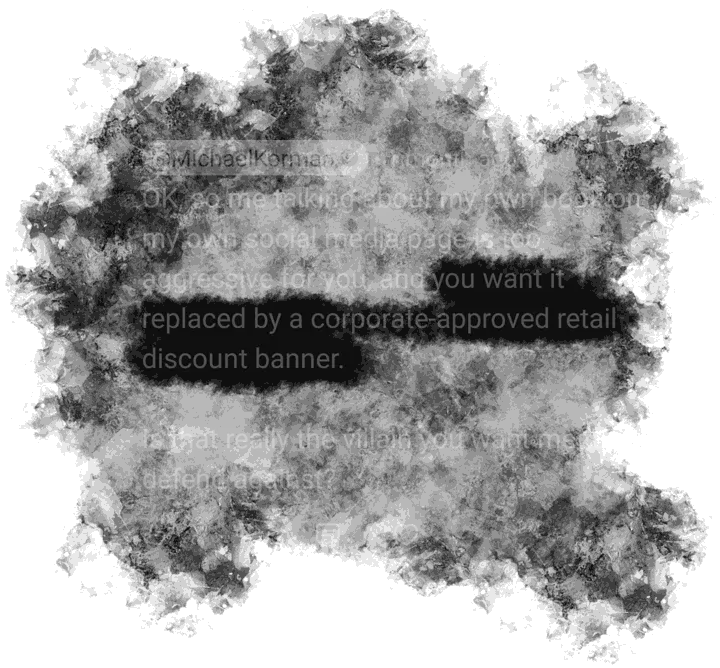
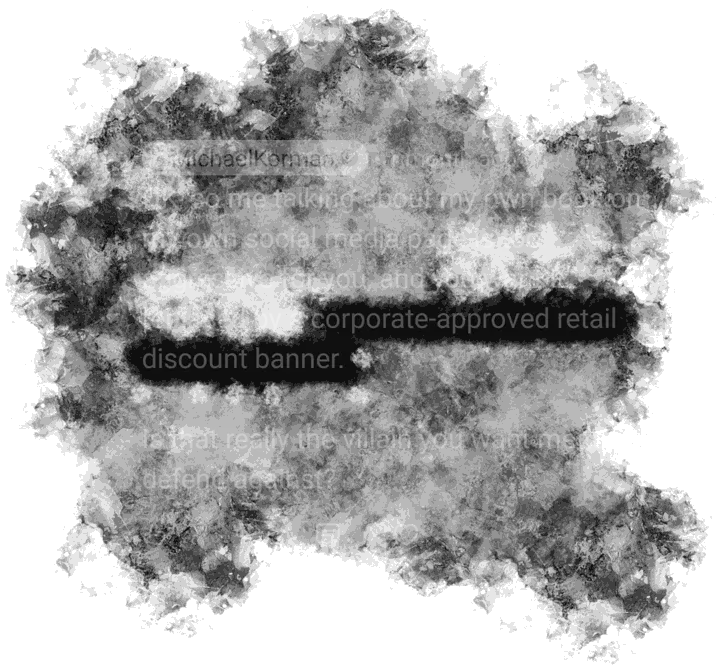
Change more images to `phrases` versions, change button font to `Geist Mono`

diff --git a/door/index.html b/door/index.html
@@ -60,7 +60,7 @@
 
             <img src="assets/passion-0-phrases.webp" alt="" class="relic-img comment-left">
             <img src="assets/passion-1-interruption.webp" alt="YouTube comment, name blurred out: 'I wonder, Mad Hatter... Does your passion come from money? Or from the heart?'" class="relic-img comment-right comment-strong">
-            <img src="assets/passion-2-lightdark.webp" alt="YouTube comment from Michael Korman: 'Can you articulate this better? Like, I write a book about online business and you call the concept of money itself into question. I don't know where to go with that.'" class="relic-img comment-left">
+            <img src="assets/passion-2-phrases.webp" alt="YouTube comment from Michael Korman: 'Can you articulate this better? Like, I write a book about online business and you call the concept of money itself into question. I don't know where to go with that.'" class="relic-img comment-left">
 
             <img src="assets/passion-3-interruption.webp" alt="YouTube comment, name blurred out: 'Simple question, Mr. Korman. Do you have a passion for what you do? Or just for the money you receive? Even when writing a book about online business you could still have a passion for a myriad of things: Teaching, writing, analyzing, etc. But it would seem like your passion is for the money and only the money. Please note, I am not judging you, just merely curious about what makes you, you." class="relic-img comment-right comment-strong">
             <img src="assets/passion-4-phrases.webp" alt="YouTube comment from Michael Korman: 'I think I get what you’re asking. You want to know: is it safe to look at the world Michael’s way? The answer? No. Almost certainly not. I didn’t arrive at this worldview all in one go. I didn’t sign on with some guru. I didn’t just make it up to sell a book. I tried doing X and it made me gain 70 pounds. I tried doing Y and it gave me chronic pain in my right forearm. I tried doing Z and it made my voice crack when I sang a high C. On and on. Over a period of years. Eventually, the totality of it forced me to say, 'yeah, everything they taught me is bullshit. Results DO actually matter. Process DOES actually matter. Numbing yourself has real consequences.' But if you have a better way to do it, you should do it that way. Do not surrender your discernment to some random guy on the Internet. I didn’t get here by doing that." class="relic-img comment-left comment-weak">
@@ -129,10 +129,10 @@
             <!-- <img src="assets/academic-1.webp" alt="" class="relic-img comment-left">
             <img src="assets/academic-2.webp" alt="" class="relic-img comment-right"> -->
             <img src="assets/progress-0.webp" alt="" class="relic-img comment-right comment-strong">
-            <img src="assets/progress-1-interruption.webp" alt="" class="relic-img comment-left">
+            <img src="assets/progress-1-phrases.webp" alt="" class="relic-img comment-left">
             <img src="assets/progress-2.webp" alt="" class="relic-img comment-right comment-strong">
-            <img src="assets/progress-3-interruption.webp" alt="" class="relic-img comment-left comment-weak">
-            <img src="assets/progress-4-interruption.webp" alt="" class="relic-img comment-right comment-strong">
+            <img src="assets/progress-3-phrases.webp" alt="" class="relic-img comment-left comment-weak">
+            <img src="assets/progress-4.webp" alt="" class="relic-img comment-right comment-strong">
             <!-- <img src="assets/academic-3.webp" alt="" class="relic-img comment-right">
             <img src="assets/academic-4.webp" alt="" class="relic-img comment-left"> -->
 
@@ -167,7 +167,7 @@
             <img src="assets/ai-slop.webp" alt="Comment about ai slop" class="relic-img comment-left">
             <img src="assets/em-dash.webp" alt="Comment about em-dashes" class="relic-img comment-right">
 
-            <img src="assets/misery2-terms.webp" alt="Handwritten page fragment" class="relic-img comment-big">
+            <img src="assets/misery2-phrases.webp" alt="Handwritten page fragment" class="relic-img comment-big">
 
         </section>
 

diff --git a/door/style.css b/door/style.css
@@ -7,7 +7,7 @@
 }
 
 @font-face {
-  font-family: 'Geist Mono';
+  font-family: 'Geist Mono', monospace;
   src: url('/fonts/GeistMono-Italic-VariableFont_wght.woff2') format('woff2');
   font-weight: 100 900;
   font-style: italic;
@@ -35,7 +35,7 @@ body {
   background-color: #1f1f1f;
   /* Match the dark gray background from Krita */
   color: #464646;
-  font-family: system-ui, -apple-system, sans-serif;
+  font-family: "Geist Mono", system-ui, -apple-system, sans-serif;
   min-height: 100vh;
   display: flex;
   justify-content: center;
@@ -163,12 +163,12 @@ button {
 /* Make plain text links gray and distressed looking. Have separate colors for hover and active. */
 a:link,
 a:visited {
-  color: #818181;
+  color: #494949;
 }
 
 a:hover,
 a:active {
-  color: #666666;
+  color: #4d4d4d;
 }
 
 .terminal-buy-link:hover .buy-btn-img {
